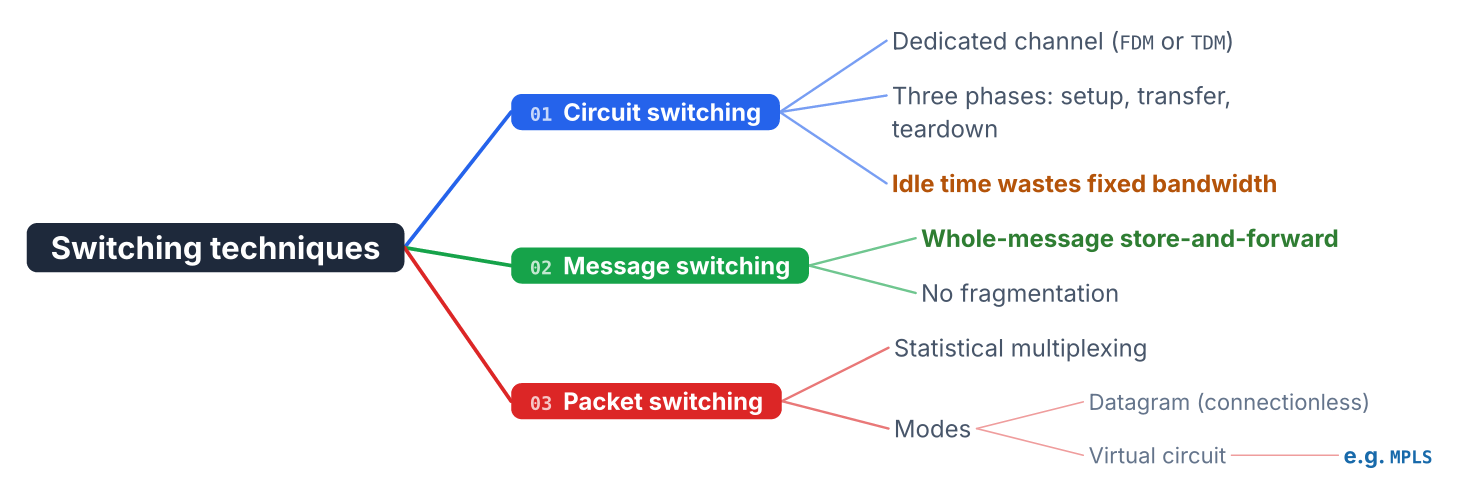
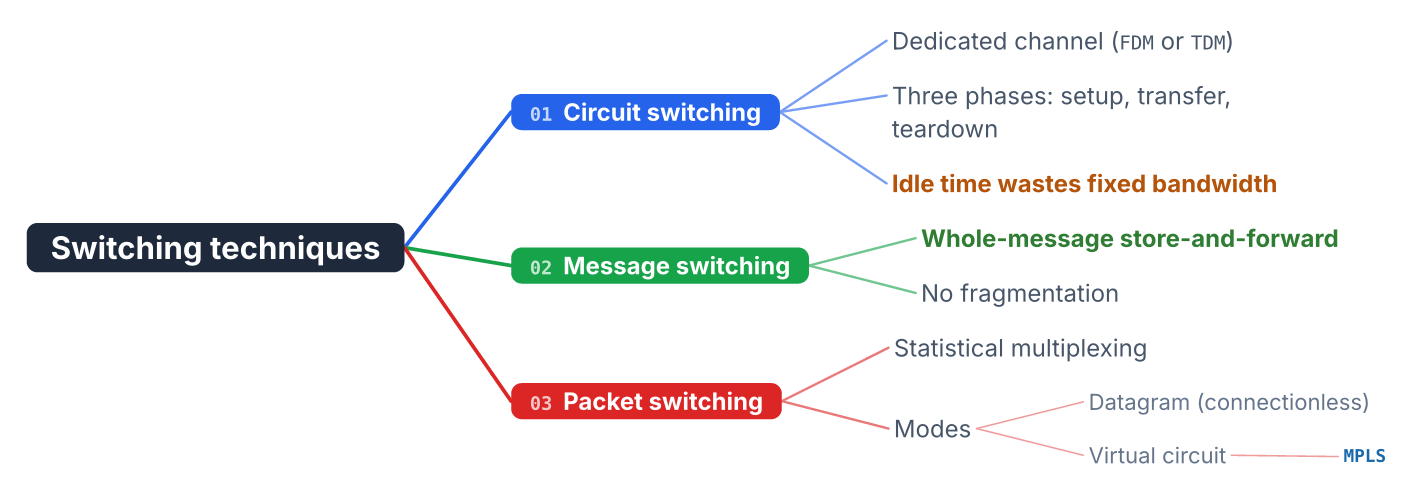
docs: drop the repeated e.g. from the example leaf, gallery headers in Inter

Changed region(s): [[0.031, 0.0605, 0.9929, 0.9375], [0.6206, 0.5746, 0.8068, 0.6351]]

diff --git a/README.md b/README.md
@@ -73,7 +73,7 @@ Three more styles build on the same tree. The examples below all draw this one:
     node([Statistical multiplexing]),
     node([Modes],
       node([Datagram (connectionless)]),
-      node([Virtual circuit], node([e.g. `MPLS`], emphasis: "example")),
+      node([Virtual circuit], node([`MPLS`], emphasis: "example")),
     ),
   ),
 )
